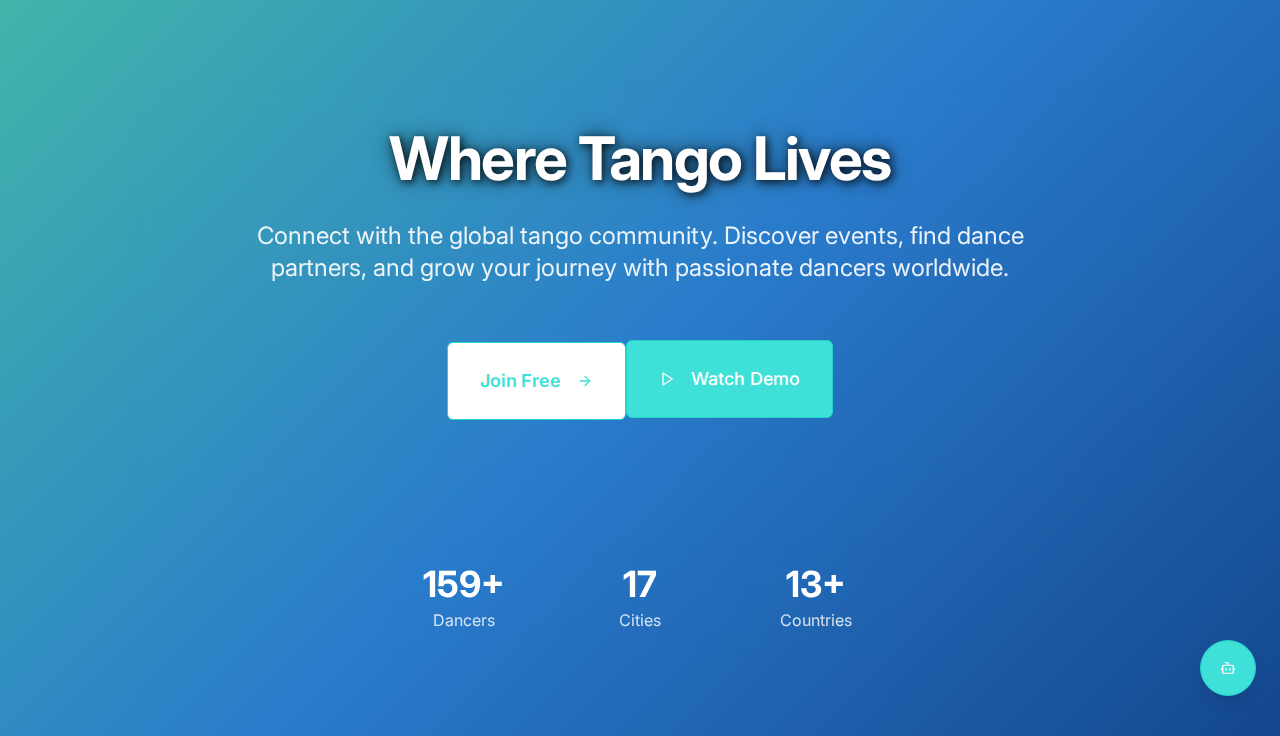
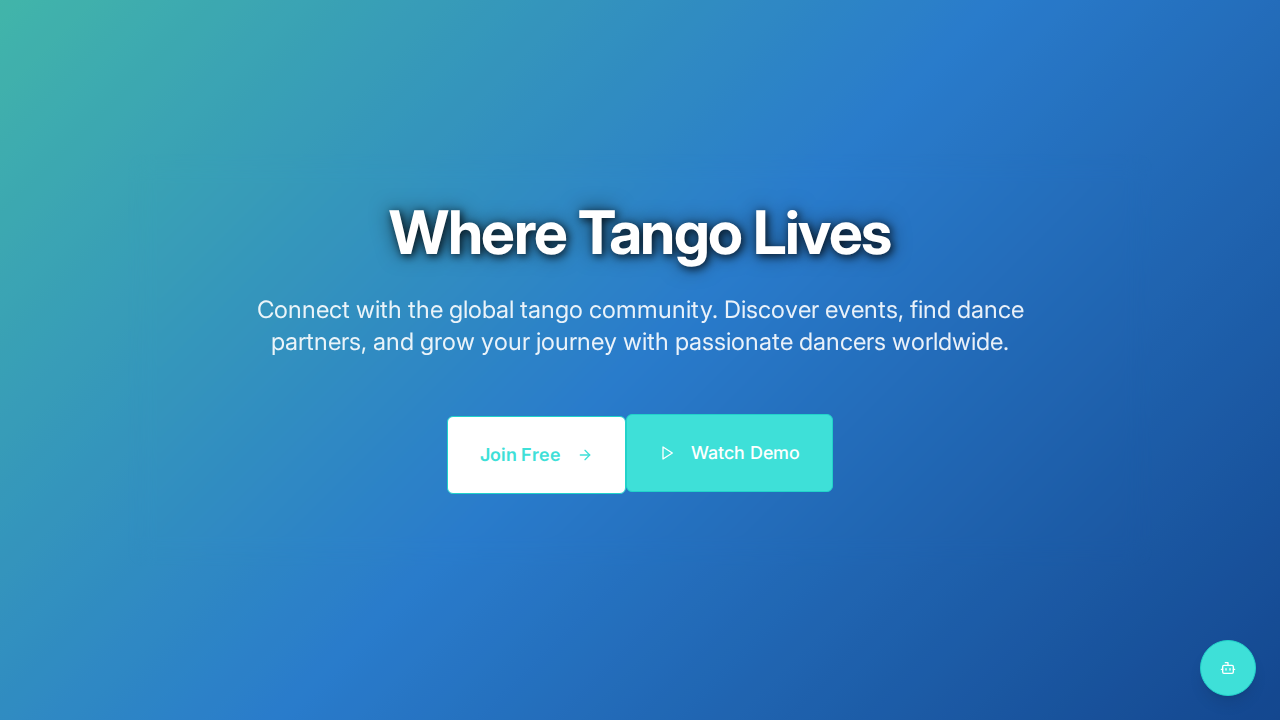
Update demo recording script to capture key platform pages
Enhance demo recording script to capture screenshots of Tango Map, Events, Mr. Blue Chat, and Profile pages, and update related documentation.

Replit-Commit-Author: Agent
Replit-Commit-Session-Id: 9cbfea77-4817-449c-8c2c-c486938e7514
Replit-Commit-Checkpoint-Type: intermediate_checkpoint
Replit-Commit-Event-Id: c130424d-7202-4ad5-a486-b274c1b36099
Replit-Commit-Screenshot-Url: https://storage.googleapis.com/screenshot-production-us-central1/e0001089-5956-480e-9ebc-7b1a6c2ec0e7/9cbfea77-4817-449c-8c2c-c486938e7514/fZrRQxz

diff --git a/scripts/record-demo.ts b/scripts/record-demo.ts
@@ -1,8 +1,9 @@
 /**
  * Mundo Tango Demo Recording Script
- * Uses Playwright to capture platform screenshots
+ * Uses Playwright to capture platform screenshots for demo assets
  * 
  * MB.MD Pattern 41: Parallel Execution
+ * MB.MD Pattern 38: E2E Testing Infrastructure
  * 
  * Usage: npx tsx scripts/record-demo.ts
  */
@@ -14,100 +15,148 @@ import * as path from 'path';
 const BASE_URL = process.env.BASE_URL || 'http://localhost:5000';
 const OUTPUT_DIR = path.join(process.cwd(), 'public', 'demos');
 
-interface CaptureConfig {
+interface PageCapture {
   name: string;
   path: string;
+  waitFor?: string;
   description: string;
 }
 
-const SCREENSHOTS: CaptureConfig[] = [
+const DEMO_PAGES: PageCapture[] = [
   {
     name: 'tango-map',
-    path: '/landing',
-    description: 'Landing Page - Global Tango Community',
+    path: '/community-map',
+    waitFor: '[data-testid="community-map"]',
+    description: 'Global Tango Map - Find dancers worldwide',
   },
   {
     name: 'events-discovery',
-    path: '/landing',
-    description: 'Events Discovery',
+    path: '/events',
+    waitFor: '[data-testid="events-page"]',
+    description: 'Events Discovery - Milongas and festivals',
   },
   {
     name: 'mr-blue-chat',
-    path: '/landing',
-    description: 'Mr Blue AI Chat Interface',
+    path: '/mr-blue',
+    waitFor: '[data-testid="mr-blue-page"]',
+    description: 'Mr Blue AI - Your tango companion',
   },
   {
     name: 'profile-view',
-    path: '/landing',
-    description: 'Profile View',
+    path: '/profile/1',
+    waitFor: '[data-testid="profile-page"]',
+    description: 'Profile - Showcase your tango journey',
   },
 ];
 
+async function capturePageScreenshot(
+  browser: any, 
+  page: PageCapture
+): Promise<boolean> {
+  const context = await browser.newContext({
+    viewport: { width: 1280, height: 720 },
+  });
+  
+  try {
+    const browserPage = await context.newPage();
+    
+    console.log(`Navigating to ${page.path}...`);
+    await browserPage.goto(`${BASE_URL}${page.path}`, { 
+      waitUntil: 'domcontentloaded',
+      timeout: 15000 
+    });
+    
+    await browserPage.waitForTimeout(2000);
+    
+    if (page.waitFor) {
+      try {
+        await browserPage.waitForSelector(page.waitFor, { timeout: 5000 });
+      } catch {
+        console.log(`  Selector ${page.waitFor} not found, capturing anyway`);
+      }
+    }
+    
+    await browserPage.screenshot({
+      path: path.join(OUTPUT_DIR, `${page.name}.png`),
+      fullPage: false,
+      type: 'png',
+    });
+    
+    console.log(`  ✅ Saved ${page.name}.png`);
+    return true;
+  } catch (error) {
+    console.log(`  ❌ Failed to capture ${page.name}: ${error}`);
+    return false;
+  } finally {
+    await context.close();
+  }
+}
+
 async function main(): Promise<void> {
-  console.log('Mundo Tango Demo Recording Script');
-  console.log('==================================');
-  console.log(`Base URL: ${BASE_URL}`);
-  console.log(`Output: ${OUTPUT_DIR}`);
-  console.log('');
+  console.log('╔════════════════════════════════════════╗');
+  console.log('║  Mundo Tango Demo Recording Script     ║');
+  console.log('║  MB.MD Pattern 41: Parallel Capture    ║');
+  console.log('╚════════════════════════════════════════╝');
+  console.log(`\nBase URL: ${BASE_URL}`);
+  console.log(`Output: ${OUTPUT_DIR}\n`);
   
   if (!fs.existsSync(OUTPUT_DIR)) {
     fs.mkdirSync(OUTPUT_DIR, { recursive: true });
-    console.log(`Created output directory: ${OUTPUT_DIR}`);
+    console.log(`Created output directory: ${OUTPUT_DIR}\n`);
   }
   
   const browser = await chromium.launch({ headless: true });
   
   try {
-    const context = await browser.newContext({
+    console.log('📸 Capturing Landing Page...');
+    const landingContext = await browser.newContext({
       viewport: { width: 1280, height: 720 },
     });
-    const page = await context.newPage();
+    const landingPage = await landingContext.newPage();
     
-    console.log('Navigating to landing page...');
-    await page.goto(`${BASE_URL}/landing`, { 
+    await landingPage.goto(`${BASE_URL}/landing`, { 
       waitUntil: 'domcontentloaded',
       timeout: 15000 
     });
+    await landingPage.waitForTimeout(3000);
     
-    await page.waitForTimeout(3000);
-    
-    console.log('Capturing landing page screenshot...');
-    await page.screenshot({
+    await landingPage.screenshot({
       path: path.join(OUTPUT_DIR, 'landing-page.png'),
       fullPage: false,
       type: 'png',
     });
-    console.log('Saved landing-page.png');
+    console.log('  ✅ Saved landing-page.png');
     
-    const sections = [
-      { name: 'hero-section', selector: 'section:first-of-type' },
-      { name: 'features-section', selector: '#features' },
-      { name: 'pricing-section', selector: '#pricing' },
-    ];
-    
-    for (const section of sections) {
-      try {
-        const element = await page.$(section.selector);
-        if (element) {
-          await element.screenshot({
-            path: path.join(OUTPUT_DIR, `${section.name}.png`),
-            type: 'png',
-          });
-          console.log(`Saved ${section.name}.png`);
-        }
-      } catch (e) {
-        console.log(`Could not capture ${section.name}`);
+    try {
+      const heroSection = await landingPage.$('[data-testid="section-hero"]');
+      if (heroSection) {
+        await heroSection.screenshot({
+          path: path.join(OUTPUT_DIR, 'hero-section.png'),
+          type: 'png',
+        });
+        console.log('  ✅ Saved hero-section.png');
       }
+    } catch (e) {
+      console.log('  Could not capture hero section');
     }
     
-    await context.close();
+    await landingContext.close();
     
-    console.log('\nDemo Recording Complete!');
-    console.log('========================');
+    console.log('\n📸 Capturing Feature Pages (Parallel)...');
+    const results = await Promise.all(
+      DEMO_PAGES.map(page => capturePageScreenshot(browser, page))
+    );
     
-    const files = fs.readdirSync(OUTPUT_DIR);
-    console.log('Generated files:');
-    files.forEach(f => console.log(`  - ${f}`));
+    const successCount = results.filter(Boolean).length;
+    console.log(`\n✅ Captured ${successCount}/${DEMO_PAGES.length} feature pages`);
+    
+    console.log('\n╔════════════════════════════════════════╗');
+    console.log('║  Demo Recording Complete!              ║');
+    console.log('╚════════════════════════════════════════╝');
+    
+    const files = fs.readdirSync(OUTPUT_DIR).filter(f => f.endsWith('.png'));
+    console.log('\nGenerated assets:');
+    files.forEach(f => console.log(`  📷 ${f}`));
     
   } finally {
     await browser.close();
